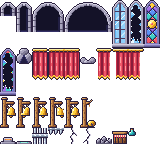
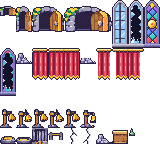
Step 8 look round 3, props: the bell, plates, gate, doorways, shop counter and rubble cut from the approved Drive plates
The owner (~17:45 UTC): "Not seeing the asset usage, where are they?" The things a player touches in
the first rooms are now the art desk's own pictures, re-cut by tools/art/props/drive.py: bell,
bell-ringing, bell-broken, plate-up/down, gate-closed/open (P04 chibi-pixel-interactables);
door-enter-* and rubble, hide-1x1 (P07 vibrant-platformer-interactables); shop-counter, shop-goods
(P04 cantina-tavern-hub).

Ran: make.py, selfcheck.py (0), npm run build, check, e2e: green. Looked at the castle street (bell,
doorways, counter) and the courtyard (plates, gate, doorways) at 844x390 and 390x664
(docs/plan/step-8-shots/round3/props/after-street-bell-*, after-courtyard-gate-*).
Measure row: none. All data; undo by reverting the commit.

Claude-Session: https://claude.ai/code/session_017WiGzJxBqVvizcghgHk5NG

diff --git a/tools/art/props/drive.py b/tools/art/props/drive.py
@@ -1,0 +1,101 @@
+"""The owner's rule (2026-11-23, docs/mechanisms/art-pipeline.md, "Approved Drive assets first"): every picture is
+re-authored from an approved Drive source plate where one exists. This file cuts this lane's looks from those
+plates with srcimport.grab() (crop, hard alpha, largest blob, snap to the master palette by material, majority
+shrink, re-ink). Each function names its plate and box. DRAFT: boxes, sizes and materials are first passes.
+
+Plates: P04 chibi-pixel-interactables ('interact'), P07 vibrant-platformer-interactables ('vibrant'),
+P04 cantina-tavern-hub ('tavern'), P03 pixel-art-vfx-and-pickup-atlas ('vfx')."""
+from PIL import Image
+
+from px import INK, new, paste
+from srcimport import grab, ramps
+
+PARTS = ramps('stone', 'castle', 'gold', 'wood', 'metal', 'red', 'orange', 'blue', 'teal', 'night')
+
+
+def fit(piece, w, h, align='bottom'):
+    """Put a cut piece on a w x h canvas, bottom-centred (or centred)."""
+    im = new(w, h)
+    x = (w - piece.width) // 2
+    y = h - piece.height if align == 'bottom' else (h - piece.height) // 2
+    paste(im, piece, x, y)
+    return im
+
+
+# ---- the alarm bell on its post: P04 interactables, row 3 (idle, ringing) and row 4 (broken)
+def bell():
+    return fit(grab('interact', (1090, 595, 1250, 780), 0, PARTS, size=(16, 19)), 16, 32)
+
+
+def bell_ringing():
+    """4 frames: the P04 ringing post, alternated with the idle one shifted a pixel, so it swings."""
+    ring = grab('interact', (1268, 585, 1440, 780), 0, PARTS, size=(17, 19))
+    idle = grab('interact', (1090, 595, 1250, 780), 0, PARTS, size=(16, 19))
+    frames = [fit(ring.crop((0, 0, 16, 19)), 16, 32), fit(idle, 16, 32), fit(ring.crop((1, 0, 17, 19)), 16, 32), fit(idle, 16, 32)]
+    out = new(64, 32)
+    for i, f in enumerate(frames):
+        out.paste(f, (i * 16, 0))
+    return out
+
+
+def bell_broken():
+    return fit(grab('interact', (98, 850, 240, 1015), 0, PARTS, size=(16, 18)), 16, 32)
+
+
+# ---- floor plates: P04 interactables, row 1 (up; pressed and lit)
+def plate(down):
+    if down:
+        return fit(grab('interact', (210, 235, 358, 322), 0, PARTS, size=(16, 7)), 16, 16)
+    return fit(grab('interact', (28, 230, 172, 322), 0, PARTS, size=(16, 8)), 16, 16)
+
+
+# ---- the gate: P04 interactables, row 1 (closed bars; open frame)
+def gate(open_):
+    if open_:
+        # the raised gate's foot: the open frame's lintel and post tops, as the top tile under the lintel
+        g = grab('interact', (1265, 175, 1432, 318), 0, PARTS, size=(16, 14))
+        return fit(g.crop((0, 0, 16, 8)), 16, 16, align='top')
+    # one tile of the closed gate, stacking: the bars from the middle of the closed gate
+    g = grab('interact', (1072, 172, 1236, 318), 0, PARTS, size=(18, 24), edge=None)
+    return g.crop((1, 5, 17, 21))
+
+
+# ---- a doorway you go in by: P07 vibrant interactables, row 2 (a stone arch, its door swung open)
+def door_enter(w, h):
+    d = grab('vibrant', (212, 242, 388, 412), 0, PARTS + ramps('foliage', 'grass'), size=(16 * w + 2, 16 * h - 6))
+    return fit(d, 16 * w, 16 * h)
+
+
+# ---- the shop: P04 tavern counter panel; a bottle from the tavern's row 8
+def shop_counter():
+    return fit(grab('tavern', (98, 305, 178, 372), 0, ramps('wood', 'gold', 'earth'), size=(16, 14)), 16, 16)
+
+
+def shop_goods():
+    return fit(grab('tavern', (1208, 535, 1258, 602), 0, ramps('foliage', 'grass', 'metal', 'gold', 'wood'), size=(6, 8)), 8, 8)
+
+
+# ---- what a broken wall leaves: P07 vibrant, row 4 (stones and dust, the dust left out by the materials)
+def rubble():
+    return fit(grab('vibrant', (1222, 650, 1395, 760), 0, ramps('stone', 'castle'), size=(16, 10)), 16, 16)
+
+
+# ---- the quarry's one-tile hide: the same P07 rock heap; its fold is the heap's lower half
+def hide_1x1():
+    return fit(grab('vibrant', (1222, 650, 1395, 760), 0, ramps('stone', 'castle'), size=(16, 11)), 16, 16)
+
+
+def hide_front_1x1():
+    im = hide_1x1()
+    out = new(16, 16)
+    out.paste(im.crop((0, 10, 16, 16)), (0, 10))
+    return out
+
+
+# ---- the camp's horn: P07 vibrant, row 3 (a brass horn on a bracket, idle and blasting)
+def horn_idle():
+    return grab('vibrant', (318, 462, 445, 595), 0, ramps('gold', 'orange', 'wood', 'red'), size=(14, 14))
+
+
+def horn_blast():
+    return grab('vibrant', (448, 450, 605, 595), 0, ramps('gold', 'orange', 'wood', 'red'), size=(17, 15))

diff --git a/tools/art/props/make.py b/tools/art/props/make.py
@@ -15,6 +15,7 @@ import decor_draw as dd
 import import_p01
 import round2 as r2
 import round3 as r3
+import drive as dv
 from px import mix, new, col, paste
 from sizes import ROOT, sizes
 from place import place_all
@@ -69,7 +70,7 @@ def looks_sheets():
     # ---- parts
     s = Sheet(160)
     for (w, h) in sorted(sz['door-enter']):
-        s.add('door-enter-%dx%d' % (w, h), lp.door_enter(w, h))
+        s.add('door-enter-%dx%d' % (w, h), dv.door_enter(w, h))  # P07 vibrant
     for (w, h) in sorted(sz['window']):
         s.add('window-%dx%d' % (w, h), lp.window(w, h))
         s.add('window-broken-%dx%d' % (w, h), lp.window(w, h, True))
@@ -77,21 +78,22 @@ def looks_sheets():
     s.add('part:throne-room:window', lp.stained(1, 3))
     s.add('part:throne-room:window:broken', lp.stained(1, 3, True))
     # round 3: the one-tile hiding places are all in the quarry: rubble over a crevice, not a curtain
-    hide = lambda w, h: r3.hide_1x1() if (w, h) == (1, 1) else lp.curtain(w, h)
-    front = lambda w, h: r3.hide_front_1x1() if (w, h) == (1, 1) else r2.hide_front(w, h, lp.curtain(w, h))
+    hide = lambda w, h: dv.hide_1x1() if (w, h) == (1, 1) else lp.curtain(w, h)
+    front = lambda w, h: dv.hide_front_1x1() if (w, h) == (1, 1) else r2.hide_front(w, h, lp.curtain(w, h))
     for (w, h) in sorted(sz['hide']):
         s.add('hide-%dx%d' % (w, h), hide(w, h))
     for (w, h) in sorted(sz['hide']):
         s.add('hide-front-%dx%d' % (w, h), front(w, h))
     s.newrow()
-    s.add('bell', lp.bell())
-    s.add('bell-ringing', lp.bell_ringing(), frames=4, fps=10)
-    s.add('bell-broken', lp.bell('broken'))
+    # Drive-first (owner, 2026-11-23): the bell, plates, gate, counter, goods and rubble are cut from P04/P07
+    s.add('bell', dv.bell())
+    s.add('bell-ringing', dv.bell_ringing(), frames=4, fps=10)
+    s.add('bell-broken', dv.bell_broken())
     s.newrow()
-    s.add('plate-up', lp.plate(False)); s.add('plate-down', lp.plate(True))
-    s.add('gate-closed', lp.gate(False)); s.add('gate-open', lp.gate(True))
-    s.add('crack-1', lp.crack(0)); s.add('crack-2', lp.crack(1)); s.add('rubble', lp.rubble())
-    s.add('shop-counter', lp.shop_counter()); s.add('shop-goods', lp.shop_goods())
+    s.add('plate-up', dv.plate(False)); s.add('plate-down', dv.plate(True))
+    s.add('gate-closed', dv.gate(False)); s.add('gate-open', dv.gate(True))
+    s.add('crack-1', lp.crack(0)); s.add('crack-2', lp.crack(1)); s.add('rubble', dv.rubble())
+    s.add('shop-counter', dv.shop_counter()); s.add('shop-goods', dv.shop_goods())
     out = [('parts', 'props/parts.png', s)]
     # ---- round 3: the horn on the camp's post (src/client/draw/outpost.ts draws it bottom-centre over 2x3 tiles)
     s = Sheet(160)

diff --git a/tools/art/props/README.md b/tools/art/props/README.md
@@ -115,6 +115,15 @@ re-cut from P03 grassy ruins' clean vine arch (`round3.ruin_arch`) with `srcimpo
   against it. If it never goes live, look at Railway's build log for 040bc8f: locally `npm run build`,
   `check` and `e2e` are green on it.
 
+**Drive-first (the owner, ~17:10 UTC: "everything to utilized the approved assets in the drive").** `drive.py`
+cuts the first-room looks from the approved plates: `bell`, `bell-ringing`, `bell-broken` (P04
+chibi-pixel-interactables, bell posts row 3-4), `plate-up`/`plate-down` (P04 row 1), `gate-closed`/`gate-open`
+(P04 row 1 gates), `door-enter-*` (P07 vibrant-platformer-interactables, the open arched door), `shop-counter`
+(P04 tavern hub, counter panel), `shop-goods` (P04 tavern, bottle), `rubble` and `hide-1x1`/`hide-front-1x1`
+(P07 vibrant, rock heap). Still drawn here, no approved source taken yet: windows and the stained glass,
+curtain hides, cracks, the tents/palisade/rack/fire/flag, rock piles and scaffolds, the HUD faces and icons,
+the moods, fx-speed/dizzy/clang. Crates are the cast lane's sprites.
+
 ## Deviations from the contract
 
 - `ui-use`'s `src` is the whole 48×24 picture (normal then pressed), with no `frames`: that is how
